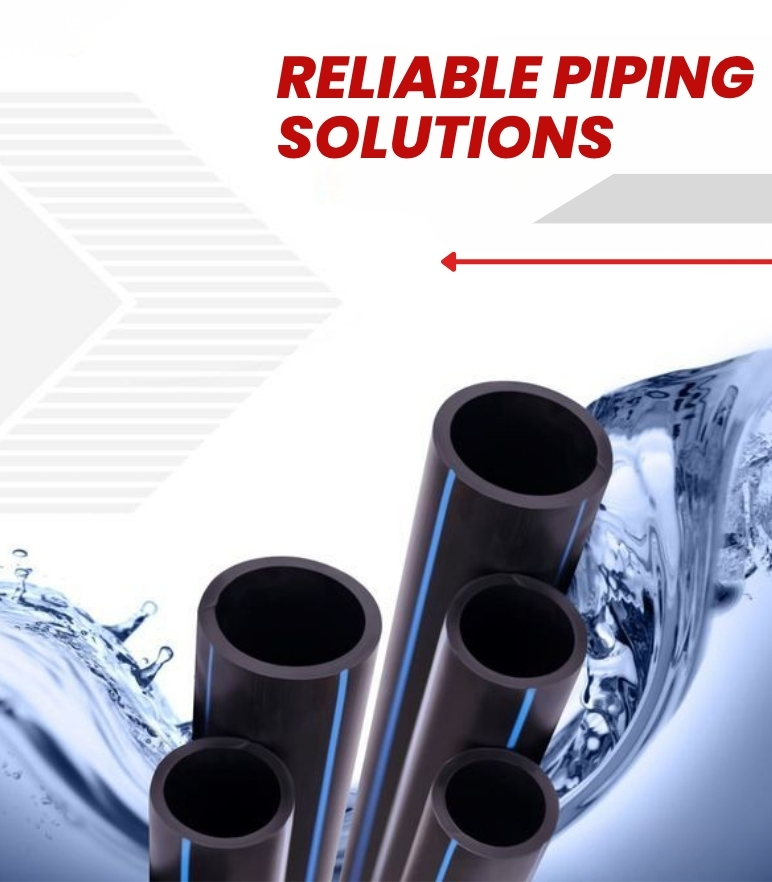
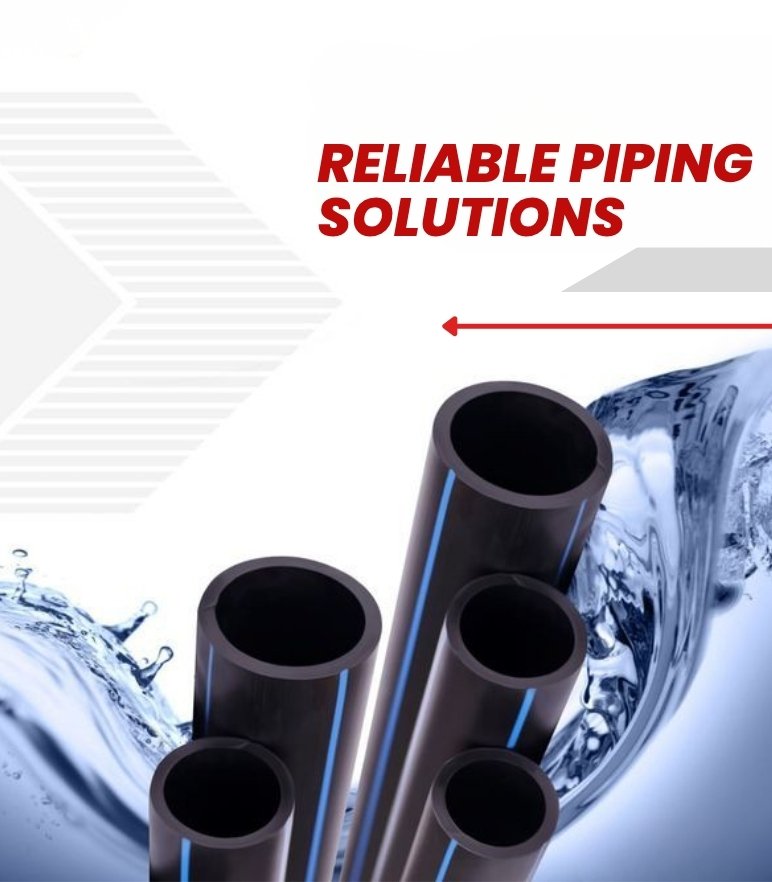
final changes

Changed region(s): [[0.342, 0.0612, 1.0, 0.3367], [0.5596, 0.3367, 1.0, 0.398]]

diff --git a/index.php b/index.php
@@ -697,7 +697,7 @@ img[src*="check"] {
 
 <!--===== HERO AREA STARTS =======-->
 <div class="hero3-section-area">
-    <img src="<?php echo $base_url; ?>assets/img/elements/elements3.png" alt="" class="elements3">
+    <img src="<?php echo $base_url; ?>" alt="" class="elements3">
     <div class="container">
         <div class="row">
             <div class="col-lg-6">
